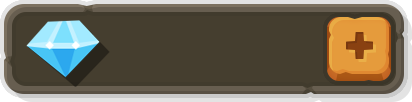
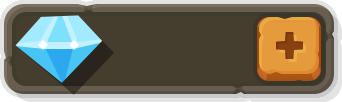
style: :art: 资源样式调整

diff --git a/components/assetsHeader.vue b/components/assetsHeader.vue
@@ -4,7 +4,7 @@
       <view class="asset" 
             v-for="(item, index) in assets" 
             :key="index" 
-            :style="`background: url(${getImageUrl(item)}) no-repeat center center / cover;`">		
+            :style="`background: url(${getImageUrl(item)}) no-repeat center center / contain;`">		
         <span>{{gameInfo.assets[item]}}</span>
       </view>
     </view>
@@ -13,7 +13,7 @@
 	    <view class="asset" 
 	          v-for="(item, index) in assets" 
 	          :key="index" 
-	          :style="`background: url(${getImageUrl(item)}) no-repeat center center / cover;`">		
+	          :style="`background: url(${getImageUrl(item)}) no-repeat center center / contain;`">		
 	      <span>{{gameInfo.assets[item]}}</span>
 	    </view>
 	</view>
@@ -63,6 +63,7 @@ function getImageUrl(name) {
   width: 100vw;
   z-index: 99;
   color: #dcc5ab;
+  font-size: 3.6vw;
   font-weight: bold;
 
   .asset {
@@ -70,19 +71,18 @@ function getImageUrl(name) {
     display: flex;
     align-items: center;
 	text-align: center;
-    width: 18.67vw;
-    height: 8vw;
-    padding-left: 13.33vw;
+	justify-content: center;
+    width: 30.67vw;
+	
+    height: 10vw;
 	
     &:first-of-type {
-      width: 16vw;
-      height: 8vw;
 	  margin-left: 4vw;
     }
-    &:last-of-type {
-      width: 16vw;
-      height: 8vw;
-    }
+   //  &:last-of-type {
+   //    width: 16vw;
+   //    height: 8vw;
+   //  }
 
     span {
       position: relative;
@@ -98,31 +98,33 @@ function getImageUrl(name) {
   top: 3vw;
   display: flex;
   justify-content: space-between;
-  width: 68vw;
+  width: 70vw;
   z-index: 99;
   color: #dcc5ab;
+  font-size: 3.6vw;
   font-weight: bold;
 
   .asset {
     position: relative;
     display: flex;
     align-items: center;
-    width: 18.67vw;
-    height: 8vw;
-    padding-left: 13.33vw;
+	text-align: center;
+	justify-content: center;
+    width: 31.67vw;
+    height: 10vw;
+	line-height: 7vw;
     &:first-of-type {
-      width: 16vw;
-      height: 8vw;
+      // width: 26vw;
+      // height: 8vw;
     }
     &:last-of-type {
-      width: 16vw;
-      height: 8vw;
+      // width: 26vw;
+      // height: 8vw;
 	  margin-top: 2vw;
     }
 
     span {
       position: relative;
-      top: -0.53vw;
     }
   }
 }

diff --git a/components/userInfoPop.vue b/components/userInfoPop.vue
@@ -29,7 +29,7 @@
 						maxlength="6" 
 						@input="updateName" 
 						:auto-focus="true" 
-						placeholder="请输入新名称"
+						placeholder="名字最大长度为6"
 						/>
 				</view>
 				<view class="tip" v-if="isShowTip">
